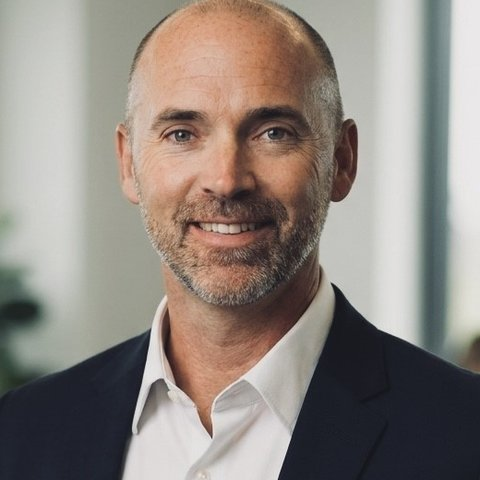
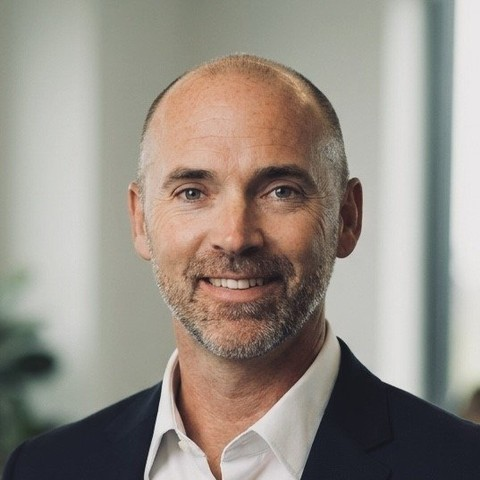
Drop the Power Engineer credential and re-cut the round audit photo
Founder review at preview. Two calls:

- The 4th Class Power Engineer ticket comes out of the /firm credential
  sentence. The remaining credentials are untouched.
- The square photo had the crown of the head hard against the top edge, so
  the rounded-full mask on /leverage-audit clipped it flat. Re-cut the 480px
  square from the supplied 1024x1004 original, which carries 63px of
  headroom above the head, framed so the head is 60 percent of the square
  with that headroom kept above it. Same pixels, wider box, no retouching.

diff --git a/app/firm/page.tsx b/app/firm/page.tsx
@@ -88,7 +88,7 @@ export default function FirmPage() {
                   Before LVRGWRKS he spent nine years owning an electrical contracting business serving oil and gas facilities across Alberta, carrying the payroll and the P&L, and running projects with crews of up to 125. He has directed a project management office on a $100M+ capital portfolio and delivered $10M+ a year in capital work.
                 </p>
                 <p className="text-brand-slate leading-relaxed mb-6">
-                  He is a Red Seal electrician, a PMP and a 4th Class Power Engineer, and holds an Executive MBA in finance from the Haskayne School of Business. The trades and the finance sit together on purpose. Most of what we fix lives in the gap between the people doing the work and the numbers that measure it.
+                  He is a Red Seal electrician and a PMP, and holds an Executive MBA in finance from the Haskayne School of Business. The trades and the finance sit together on purpose. Most of what we fix lives in the gap between the people doing the work and the numbers that measure it.
                 </p>
                 <p className="text-brand-slate leading-relaxed mb-8">
                   When a project needs a specialist, such as a CRM or ERP implementation partner, we bring one in and tell you who and why before they start.
